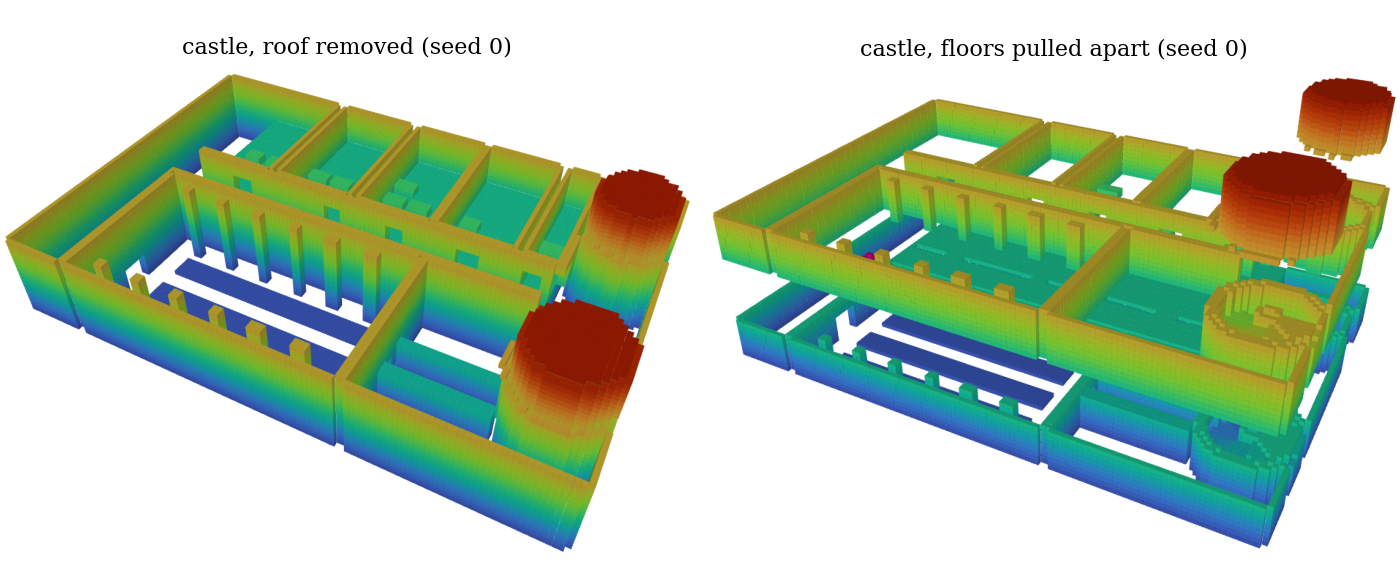
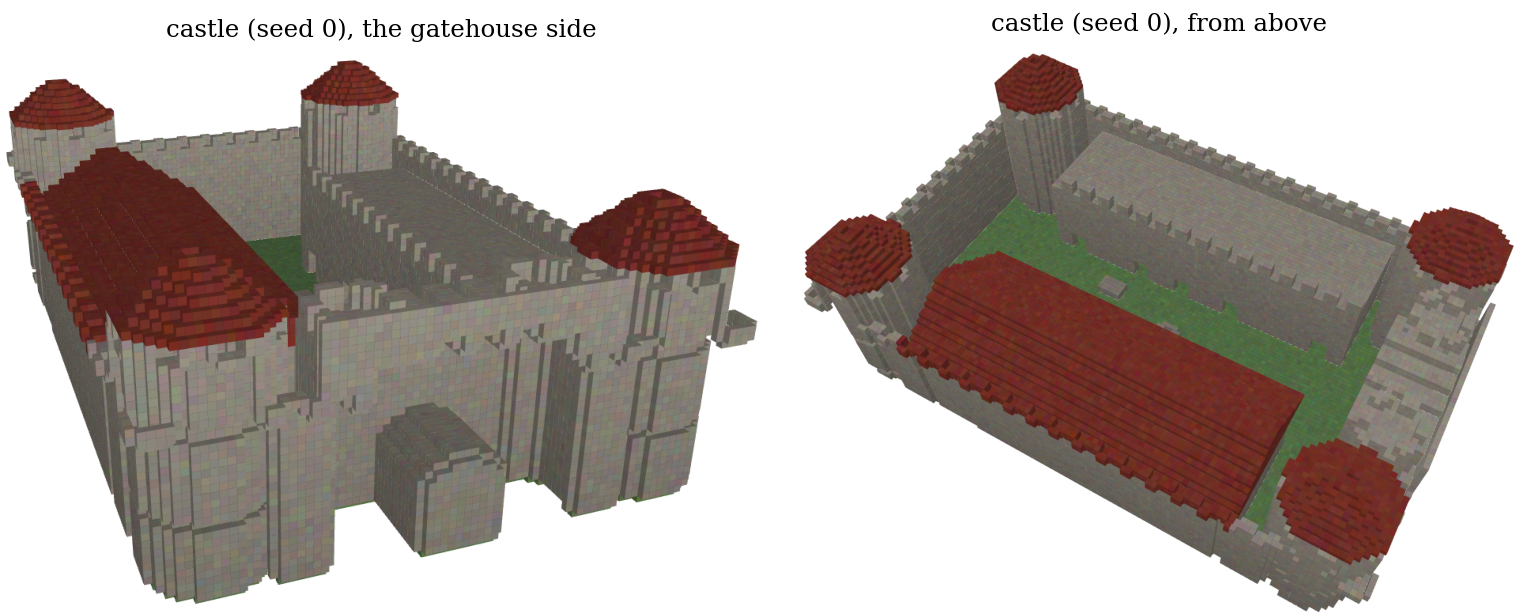
Castle: walls, towers, gatehouse, courtyard and great hall

diff --git a/swarm/worlds.py b/swarm/worlds.py
@@ -445,75 +445,116 @@ def _ring(g, cx, cy, r_in, r_out, z0, z1, value=True):
 
 def castle(seed):
     rng = np.random.default_rng(seed)
-    L, W, H, fh, t = 48.0, 32.0, 12.0, 4.0, 0.6
+    L, W, H = 48.0, 32.0, 16.0
     g = _Grid(L, W, H)
-    g.box(0, 0, 0, L, t, H), g.box(0, W - t, 0, L, W, H), g.box(0, 0, 0, t, W, H), g.box(L - t, 0, 0, L, W, H)
-    g.box(0, 0, 2 * fh, L, W, H)
-    g.box(6.0, 14.0, fh - 0.3, 40.0, W, fh)
-    g.box(6.0, 0, 0, 6.0 + t, 14.0 + t, 2 * fh)
-    g.box(6.0, 14.0, 0, 40.0, 14.0 + t, 2 * fh)
-    hx1 = 30.0 + rng.uniform(-2.0, 2.0)
-    g.box(hx1, 0, 0, hx1 + t, 14.0, 2 * fh)
-    dy = rng.uniform(5.0, 8.0)
-    g.box(6.0, dy, 0, 6.0 + t, dy + 2.4, 3.0, value=False)
-    g.box(hx1, 5.5, 0, hx1 + t, 7.9, 3.0, value=False)
-    for k in range(3):
-        y = 3.2 + k * 3.6
-        g.box(9.0, y, 0, hx1 - 3.0, y + 1.0, 0.8)
-        g.box(9.0, y - 0.6, 0, hx1 - 3.0, y - 0.3, 0.5)
-    for x in np.arange(9.0, hx1 - 1.0, rng.uniform(3.5, 4.5)):
-        for y in (1.6, 12.6):
-            g.box(x, y, 0, x + 0.5, y + 0.5, 2 * fh)
-    g.box(hx1 + 2.0, 6.0, 0, hx1 + 3.0, 8.0, 1.2)
-    for level in range(2):
-        z0 = level * fh
-        z1 = z0 + fh - 0.3
-        g.box(6.0 + t, 18.0, z0, 40.0, 18.0 + t, z1)
-        x = 6.0 + t
-        while x < 38.0:
-            x2 = min(x + rng.uniform(6.0, 8.0), 40.0)
-            g.box(x2, 18.0 + t, z0, x2 + t, W - t, z1)
-            dx = rng.uniform(x + 0.6, max(x + 0.7, x2 - 2.4))
-            g.box(dx, 18.0, z0, dx + 1.8, 18.0 + t, z0 + 2.6, value=False)
-            for r in range(rng.integers(2, 4)):
-                for c in range(rng.integers(1, 3)):
-                    sx = x + 1.2 + c * 2.4
-                    sy = 21.0 + r * 2.4
-                    if sx + 1.4 < x2 and sy + 0.7 < W - 1.0:
-                        g.box(sx, sy, z0, sx + 1.4, sy + 0.7, z0 + 0.75)
-            x = x2
-    g.box(6.0, 14.0 + t, 0, 6.0 + t, 18.0, fh - 0.3, value=False)
-    ax, ay, R = 44.0 + rng.uniform(-0.5, 0.5), 8.0 + rng.uniform(-1.0, 1.0), 3.4
-    _ring(g, ax, ay, 0.0, R, 2 * fh, H, value=False)
-    _ring(g, ax, ay, R, R + t, 0, H)
-    _ring(g, ax, ay, 0.0, 0.7, 0, 2 * fh + 0.5)
-    g.box(40.0, ay - 1.2, 0, 41.2, ay + 1.2, 3.0, value=False)
-    g.box(hx1 + t, ay - 1.2, 0, 40.0, ay + 1.2, 3.0, value=False)
-    g.box(hx1 + t, ay - 1.8, 0, 40.0, ay - 1.2, 3.6)
-    g.box(hx1 + t, ay + 1.2, 0, 40.0, ay + 1.8, 3.6)
-    nx, ny, _ = g.occ.shape
+    nx, ny, nz = g.occ.shape
     xs = (np.arange(nx) + 0.5) * RES
     ys = (np.arange(ny) + 0.5) * RES
-    ang = np.arctan2(ys[None, :] - ay, xs[:, None] - ax) % (2 * np.pi)
-    dist = np.sqrt((xs[:, None] - ax) ** 2 + (ys[None, :] - ay) ** 2)
-    ann = (dist >= 0.7) & (dist < R)
-    turns, rise = 2.0, 2 * fh
-    for k in range(int(turns * 24)):
-        a0 = (k % 24) * 2 * np.pi / 24
-        zt = rise * (k + 1) / (turns * 24)
-        m = ann & (ang >= a0) & (ang < a0 + 2 * np.pi / 24)
-        k0, k1 = max(int(np.floor((zt - 0.35) / RES)), 0), int(np.ceil(zt / RES))
-        g.occ[:, :, k0:k1][m] = True
-    bx, by, Rb = 44.0 + rng.uniform(-0.5, 0.5), 25.0 + rng.uniform(-1.0, 1.0), 3.0
-    _ring(g, bx, by, 0.0, Rb, 0, H, value=False)
-    _ring(g, bx, by, Rb, Rb + t, 0, H)
-    for z0 in (0.0, fh):
-        g.box(40.0, 18.0 + t, z0, 41.0, 20.6, z0 + 2.8, value=False)
-        g.box(40.0, 18.0 + t, z0, bx - Rb + 0.2, 20.6, z0 + 2.8, value=False)
-    g.box(0.8, 11.0, 0, 5.5, 21.0, fh - 0.4, value=False)
-    g.shell()
-    return g.occ, _starts(1.0, 12.0, 20.0, 1.5)
 
+    def disc(cx, cy, r):
+        return (xs[:, None] - cx) ** 2 + (ys[None, :] - cy) ** 2 < r ** 2
+
+    def fill(mask, z0, z1, value=True):
+        g.occ[:, :, int(round(z0 / RES)):int(round(z1 / RES))][mask] = value
+
+    def crenels(x0, y0, x1, y1, z, along_x):
+        span = x1 - x0 if along_x else y1 - y0
+        for k in np.arange(0.0, span - 0.5, 2.0):
+            if along_x:
+                g.box(x0 + k, y0, z, x0 + k + 1.0, y1, z + 1.0)
+            else:
+                g.box(x0, y0 + k, z, x1, y0 + k + 1.0, z + 1.0)
+
+    wall_h, t = 9.0, 1.0
+    g.box(0, 0, 0, L, t, wall_h), g.box(0, W - t, 0, L, W, wall_h)
+    g.box(0, 0, 0, t, W, wall_h), g.box(L - t, 0, 0, L, W, wall_h)
+    crenels(4, 0, L - 4, t, wall_h, True), crenels(4, W - t, L - 4, W, wall_h, True)
+    crenels(0, 4, t, W - 4, wall_h, False), crenels(L - t, 4, L, W - 4, wall_h, False)
+
+    towers = [(4.0, 4.0), (L - 4.0, 4.0), (4.0, W - 4.0), (L - 4.0, W - 4.0)]
+    R, tw, th = 3.8, 0.8, 12.5
+    for cx, cy in towers:
+        fill(disc(cx, cy, R) & ~disc(cx, cy, R - tw), 0, th)
+        fill(disc(cx, cy, R) & ~disc(cx, cy, R - tw), th, th + 1.0)
+        ring = disc(cx, cy, R + 0.01) & ~disc(cx, cy, R - tw)
+        ang = np.arctan2(ys[None, :] - cy, xs[:, None] - cx)
+        fill(ring & (np.floor((ang + np.pi) / (np.pi / 8)) % 2 == 1), th + 1.0, th + 1.0)
+        fill(ring & (np.floor((ang + np.pi) / (np.pi / 8)) % 2 == 0), th, th + 1.0, value=False)
+        fill(ring & (np.floor((ang + np.pi) / (np.pi / 8)) % 2 == 0), th, th + 0.0)
+        for k, z in enumerate(np.arange(th + 0.6, H - 0.2, 0.4)):
+            r = R + 0.4 - (k + 1) * (R + 0.4) / ((H - th) / 0.4)
+            fill(disc(cx, cy, max(r, 0.3)), z, z + 0.4)
+        for zf in (4.5, 9.0):
+            fill(disc(cx, cy, R - tw) & ~(np.abs(xs[:, None] - cx) < 0.9) & np.ones_like(disc(cx, cy, 1), bool), zf - 0.3, zf)
+        dxs, dys = np.sign(L / 2 - cx), np.sign(W / 2 - cy)
+        px, py = cx + dxs * (R - 0.4), cy + dys * (R - 0.4)
+        g.box(px - 1.0, py - 1.0, 0, px + 1.0, py + 1.0, 3.2, value=False)
+
+    sx, sy = towers[3]
+    ann = disc(sx, sy, R - tw) & ~disc(sx, sy, 0.7)
+    ang = np.arctan2(ys[None, :] - sy, xs[:, None] - sx) % (2 * np.pi)
+    for k in range(48):
+        a0 = (k % 24) * 2 * np.pi / 24
+        zt = 9.0 * (k + 1) / 48
+        fill(ann & (ang >= a0) & (ang < a0 + 2 * np.pi / 24), max(zt - 0.4, 0), zt)
+    fill(disc(sx, sy, 0.7), 0, 9.5)
+    for zf in (4.5, 9.0):
+        fill(disc(sx, sy, R - tw), zf - 0.3, zf, value=False)
+
+    g.box(0, 11.0, 0, 6.0, 21.0, 11.0)
+    for cy in (11.0, 21.0):
+        fill(disc(3.0, cy, 2.2), 0, 12.0)
+        ang = np.arctan2(ys[None, :] - cy, xs[:, None] - 3.0)
+        fill(disc(3.0, cy, 2.2) & ~disc(3.0, cy, 1.6) & (np.floor((ang + np.pi) / (np.pi / 6)) % 2 == 0), 12.0, 13.0)
+    crenels(0, 13.0, 6.0, 19.0, 11.0, False)
+    g.box(0.6, 14.0, 0, 6.0, 18.0, 4.0, value=False)
+    for k in range(10):
+        a = np.pi * k / 9
+        zc, half = 4.0 + 2.0 * np.sin(a) * 0.5, 2.0 * np.cos(a)
+        g.box(0.6, 16.0 - abs(half), 4.0, 6.0, 16.0 + abs(half), 4.0 + 1.0 * np.sin(a) + 0.2, value=False)
+
+    hy0, hy1, hx0, hx1 = 20.0, W - t, 10.0, 38.0
+    g.box(hx0, hy0, 0, hx1, hy0 + 0.8, 8.0), g.box(hx0, hy0, 0, hx0 + 0.8, hy1, 8.0), g.box(hx1 - 0.8, hy0, 0, hx1, hy1, 8.0)
+    ridge = (hy0 + hy1) / 2
+    for k, z in enumerate(np.arange(8.0, 12.0, 0.4)):
+        half = (hy1 - hy0) / 2 + 0.6 - k * ((hy1 - hy0) / 2 + 0.6) / 10
+        g.box(hx0 - 0.4, ridge - half, z, hx1 + 0.4, ridge + half, z + 0.4)
+        g.box(hx0 + 0.8, ridge - half + 0.6, z, hx1 - 0.8, ridge + half - 0.6, z + 0.4, value=False)
+    g.box(22.5, hy0, 0, 25.5, hy0 + 0.8, 3.6, value=False)
+    for x in np.arange(hx0 + 3.0, hx1 - 2.0, 4.0):
+        if abs(x - 24.0) > 2.5:
+            g.box(x, hy0, 2.5, x + 0.8, hy0 + 0.8, 6.0, value=False)
+    for k in range(2):
+        y = 23.0 + k * 4.0
+        g.box(hx0 + 3.0, y, 0, hx1 - 6.0, y + 1.0, 0.8)
+        g.box(hx0 + 3.0, y - 0.6, 0, hx1 - 6.0, y - 0.3, 0.5)
+    g.box(hx1 - 4.5, hy0 + 2.0, 0, hx1 - 0.8, hy1, 0.5)
+    g.box(hx1 - 3.5, 24.0, 0.5, hx1 - 2.0, 27.0, 1.3)
+    for x in np.arange(hx0 + 2.5, hx1 - 5.0, rng.uniform(4.0, 5.0)):
+        for y in (hy0 + 1.6, hy1 - 1.6):
+            g.box(x, y, 0, x + 0.5, y + 0.5, 8.0)
+
+    ry0, ry1, rx0, rx1, fh = t, 10.0, 9.0, 39.0, 4.0
+    g.box(rx0, ry1 - 0.6, 0, rx1, ry1, 8.0), g.box(rx0, ry0, 0, rx0 + 0.6, ry1, 8.0), g.box(rx1 - 0.6, ry0, 0, rx1, ry1, 8.0)
+    g.box(rx0, ry0, fh - 0.3, rx1, ry1, fh), g.box(rx0, ry0, 8.0 - 0.3, rx1, ry1, 8.0)
+    crenels(rx0, ry1 - 0.6, rx1, ry1, 8.0, True)
+    x = rx0 + 0.6
+    while x < rx1 - 3.0:
+        x2 = min(x + rng.uniform(5.0, 7.0), rx1 - 0.6)
+        for z0 in (0.0, fh):
+            g.box(x2, ry0, z0, x2 + 0.6, ry1, z0 + fh - 0.3)
+            dx = rng.uniform(x + 0.5, max(x + 0.6, x2 - 2.2))
+            g.box(dx, ry1 - 0.6, z0, dx + 1.6, ry1, z0 + 2.6, value=False) if z0 == 0 else None
+            g.box(x2, ry0 + 3.5, z0, x2 + 0.6, ry0 + 5.5, z0 + 2.6, value=False)
+            g.box(x + 0.8, ry0 + 1.0, z0, x + 2.2, ry0 + 1.8, z0 + 0.8)
+        x = x2
+    g.box(rx1 - 3.0, ry1 - 3.4, fh - 0.3, rx1 - 0.8, ry1 - 0.8, fh, value=False)
+
+    fill(disc(24.0, 15.0, 1.1) & ~disc(24.0, 15.0, 0.7), 0, 1.0)
+    g.box(30.0, 12.0, 0, 32.4, 13.4, 1.2)
+    g.box(14.0, 16.5, 0, 14.4, 16.9, 1.8)
+    g.shell()
+    return g.occ, _starts(1.0, 14.4, 17.6, 1.5)
 
 def make(family, seed):
     gen = {"office": office, "warehouse": warehouse, "forest": forest, "tunnels": tunnels,

diff --git a/README.md b/README.md
@@ -167,7 +167,7 @@ below; `metro`, `carpark` and `castle` are new and have not been run yet.
 | `cave` | natural 3D cave (8 m) around a winding main passage |
 | `metro` | two-level metro station (10 m): ticket hall with a gate line above, two platforms and tracks below, joined only by four stairwells |
 | `carpark` | three-level car park (9 m) with pillars and parked cars, floors joined by one ramp each |
-| `castle` | castle wing (12 m): a double-height great hall with long tables and pillars, two levels of classrooms along a corridor, a round tower with a spiral staircase up to a tower room, and an open round tower |
+| `castle` | castle (16 m): curtain walls with battlements, four round corner towers with cone roofs (one with a spiral staircase), a gatehouse with an arched passage where the drones start, a courtyard, a great hall with a pitched roof, long tables and pillars, and a two-storey range of rooms |
 
 ![More worlds](media/worlds_extra.png)
 
